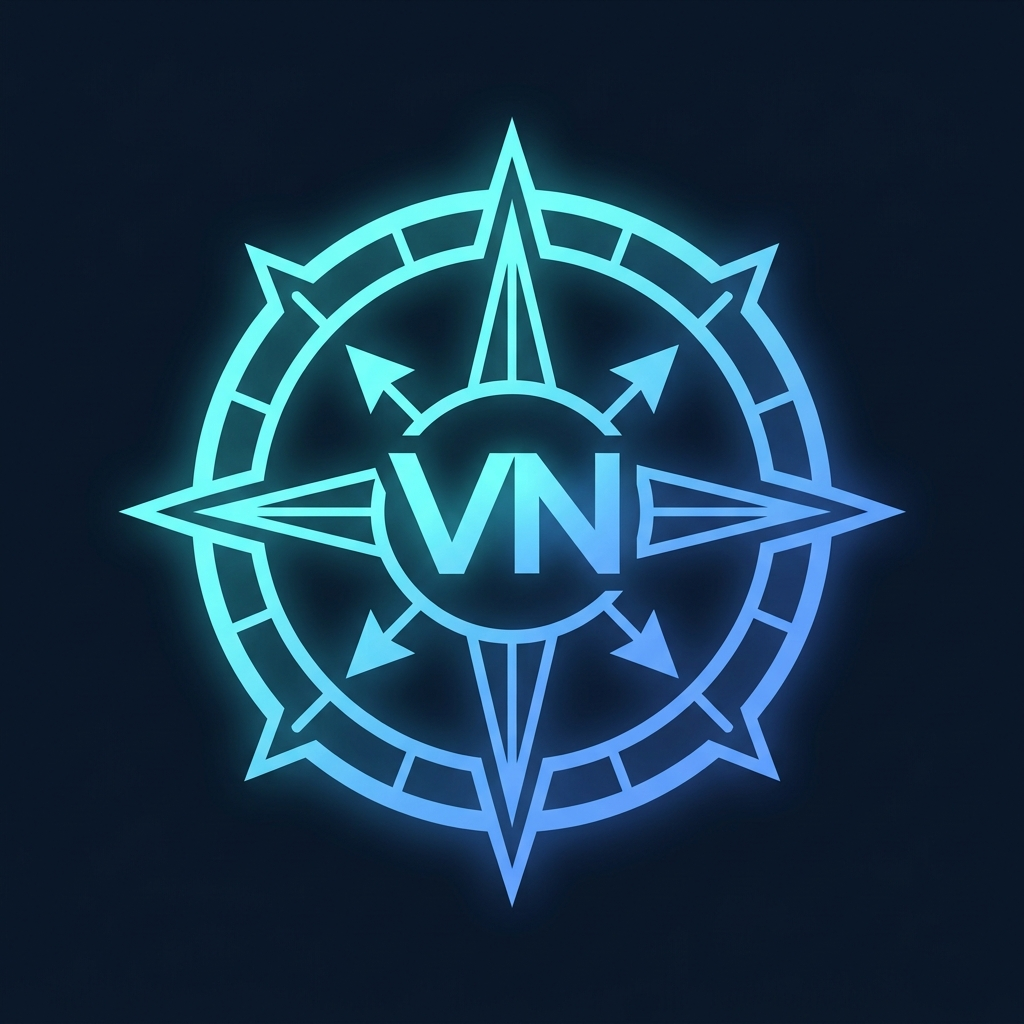
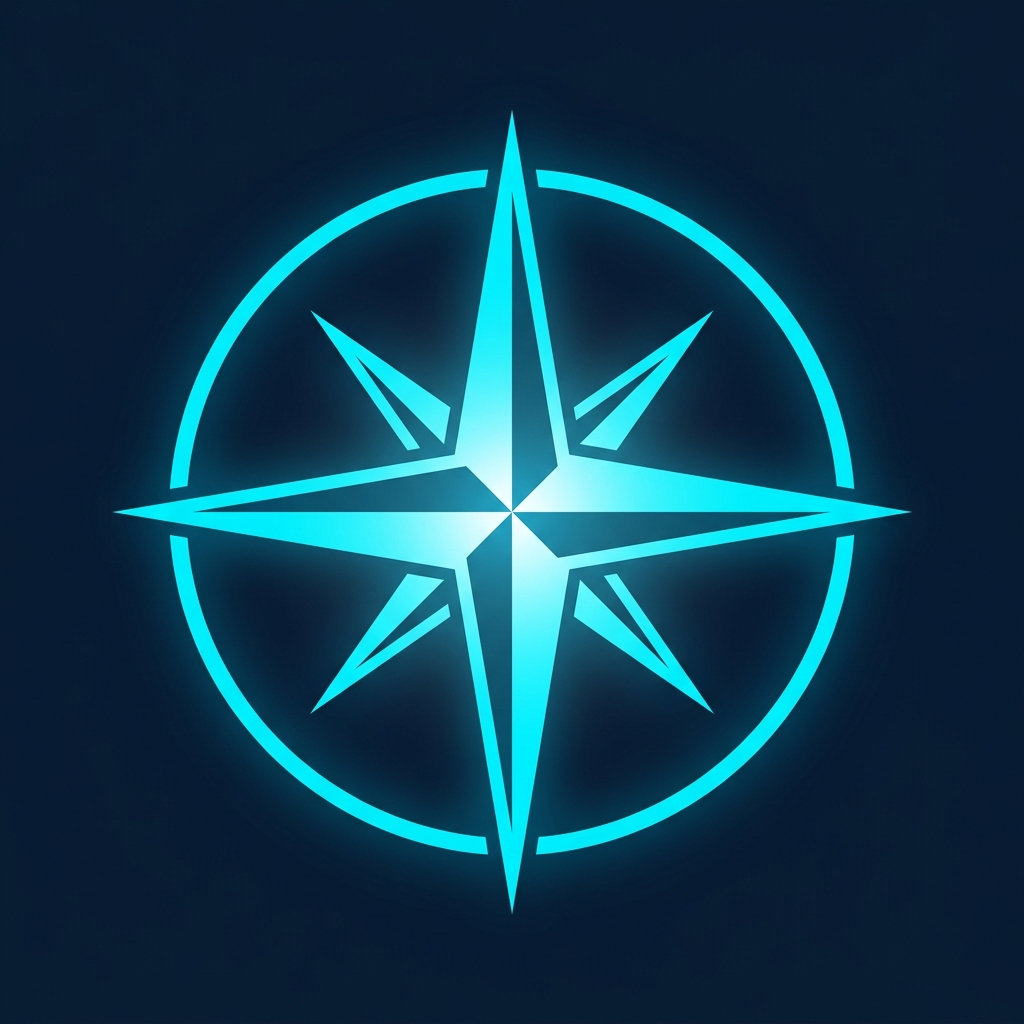
Update brand assets with consistent theme, add social post & Hangar listing

diff --git a/assets/hangar-listing.md b/assets/hangar-listing.md
@@ -1,0 +1,174 @@
+# VelocityNavigator — Hangar (PaperMC) Listing
+
+![VelocityNavigator Banner](https://raw.githubusercontent.com/sdemonzdevelopment-spec/VelocityNavigator/main/assets/hero-banner.png)
+
+**VelocityNavigator v4** is a production-grade Velocity proxy plugin that delivers absolute traffic control over your network through intelligent load balancing, circuit breaker resilience, and a highly context-aware `/lobby` system.
+
+No more funneling all new players into a single hub. No more sending players to offline servers. No more guessing which lobby they ended up on.
+
+> **Platform:** Velocity only — this plugin runs on your **Velocity proxy**, not on Paper/Spigot backends.
+
+![Routing](https://raw.githubusercontent.com/sdemonzdevelopment-spec/VelocityNavigator/main/assets/feature-routing.png)
+
+## What's New in v4
+
+- **7 Selection Algorithms** — `least_players`, `random`, `round_robin`, `power_of_two` (recommended), `weighted_round_robin`, `least_connections`, `consistent_hash`
+- **Circuit Breaker** — Automatic failure detection with CLOSED → OPEN → HALF_OPEN state machine
+- **Player Affinity** — Sticky sessions so players return to their previous lobby, configurable via `[routing.affinity]`
+- **Server Drain Mode** — Gracefully empty servers for maintenance with `/vn drain`
+- **Connection Retry & Fallback Chain** — Configurable retry with priority-based fallback groups
+- **Admin Update Notifications** — Automatic check on proxy start + admin join alerts
+- **Per-Group Mode Override** — Different routing algorithms per contextual group
+- **Self-Documenting Config** — Auto-migrates from v3 with `.bak` backup
+
+## Why VelocityNavigator?
+
+### For Players
+- `/lobby` just works — fast, reliable, with clear feedback messages.
+- Always routes to a healthy, reachable server.
+- Automatically placed into the best lobby the moment they join the network, before authentication even completes.
+- Sticky sessions mean players rejoin the lobby they were last on.
+
+### For Admins
+- **Initial Join Balancing** — Bypasses Velocity's default static fallback engine to perfectly split initial proxy connection waves.
+- **7 routing algorithms** — From simple `random` to advanced `power_of_two` with 3–5× better tail latency.
+- **Circuit Breaker** — Automatically stops routing to failing servers before players notice.
+- **Server Drain Mode** — Safely empty lobbies for maintenance without kicking players.
+- **Contextual lobby groups** — Different game servers can point to different lobby pools with automatic fallback loops.
+- **Real-time health checks** — Async pings with configurable timeout, TTL caching, and ping coalescing to prevent backend storms.
+- **Connection retry** — Automatically retries on connection failure with configurable fallback chain.
+- **Anti-spam protection** — Pre-execution cooldown locks block macro abuse before the routing engine even fires.
+- **Update notifications** — Checks for updates on startup and notifies admins when they join.
+
+## How Routing Works
+
+```
+Player runs /lobby
+    ↓
+Player affinity check (return to previous lobby if sticky)
+    ↓
+Contextual group resolution (if enabled)
+    ↓
+Fallback to default lobbies (if contextual group is empty/offline)
+    ↓
+Cycle pruning (remove current server if alternatives exist)
+    ↓
+Drain filter (skip servers in drain mode)
+    ↓
+Circuit breaker check (skip OPEN/circuit-tripped servers)
+    ↓
+Async health checks (with TTL cache + ping coalescing)
+    ↓
+Selection strategy (7 algorithms available)
+    ↓
+Connection attempt with retry + fallback chain
+    ↓
+Player is connected to the best available lobby
+```
+
+*All server name matching is **case-insensitive** — `Lobby-1` and `lobby-1` are treated identically.*
+
+## Commands & Diagnostics
+
+| Command | Permission | Description |
+|---------|-----------|-------------|
+| `/lobby` | `velocitynavigator.use` | Send to best available lobby |
+| `/vn reload` | `velocitynavigator.admin` | Reload config live |
+| `/vn status` | `velocitynavigator.admin` | Runtime status dashboard |
+| `/vn debug player <name>` | `velocitynavigator.admin` | Preview routing for a player |
+| `/vn debug server <name>` | `velocitynavigator.admin` | Inspect server health snapshot |
+| `/vn drain <server>` | `velocitynavigator.admin` | Drain a server for maintenance |
+| `/vn undrain <server>` | `velocitynavigator.admin` | Remove drain mode from a server |
+| `/vn drain status` | `velocitynavigator.admin` | View all drained servers |
+| `/vn updatecheck` | `velocitynavigator.admin` | Check for plugin updates |
+| `/vn version` | `velocitynavigator.admin` | Display installed version |
+
+## Quick Config Example
+
+```toml
+# VelocityNavigator v4.0.0 Configuration
+
+notify_on_startup = true
+notify_admins_on_join = true
+
+[commands]
+primary = "lobby"
+aliases = ["hub", "spawn"]
+permission = "velocitynavigator.use"
+admin_aliases = ["velocitynavigator", "vn"]
+cooldown_seconds = 3
+reconnect_if_same_server = false
+
+[routing]
+selection_mode = "power_of_two"
+cycle_when_possible = true
+balance_initial_join = true
+max_retries = 2
+
+default_lobbies = [
+  { server = "lobby-1", max_players = 100, weight = 3 },
+  { server = "lobby-2", max_players = 100, weight = 2 },
+  { server = "lobby-3", max_players = 50, weight = 1 },
+]
+
+[routing.affinity]
+enabled = true
+stickiness = 0.7
+
+[circuit_breaker]
+enabled = true
+failure_threshold = 3
+cooldown_seconds = 30
+half_open_max_tests = 1
+
+[health_checks]
+enabled = true
+timeout_ms = 2500
+cache_seconds = 60
+
+[update_checker]
+channel = "release"
+```
+
+## Compatibility
+
+- **Platform:** Velocity only (not Bukkit/Spigot/Paper backends)
+- **Velocity:** `3.x`
+- **Java:** `17+`
+
+## Hangar Metadata
+
+| Field | Value |
+|-------|-------|
+| **Category** | Proxy / Utility |
+| **License** | Apache-2.0 |
+| **Supported Platforms** | Velocity |
+| **Keywords** | lobby, load-balancer, routing, velocity, proxy, navigation, hub |
+
+---
+
+## Documentation & Links
+
+- **GitHub Repository**: [View Source](https://github.com/sdemonzdevelopment-spec/VelocityNavigator)
+- **Configuration Guide**: [Read Here](https://github.com/sdemonzdevelopment-spec/VelocityNavigator/wiki/Configuration-Guide)
+- **Routing Algorithms**: [Read Here](https://github.com/sdemonzdevelopment-spec/VelocityNavigator/wiki/Routing-Algorithms)
+- **Circuit Breaker**: [Read Here](https://github.com/sdemonzdevelopment-spec/VelocityNavigator/wiki/Circuit-Breaker)
+- **Initial Join Balancing**: [Read Here](https://github.com/sdemonzdevelopment-spec/VelocityNavigator/wiki/Initial-Join-Balancing)
+- **Operations Runbook**: [Read Here](https://github.com/sdemonzdevelopment-spec/VelocityNavigator/wiki/Operations-Runbook)
+- **Migration Guide (v3 → v4)**: [Read Here](https://github.com/sdemonzdevelopment-spec/VelocityNavigator/wiki/Migration-Guide)
+
+---
+
+## Telemetry
+
+[![bStats](https://bstats.org/signatures/velocity/Velocity%20Navigator.svg)](https://bstats.org/plugin/velocity/Velocity%20Navigator/28341)
+
+---
+
+<p align="center">
+  <img src="https://raw.githubusercontent.com/sdemonzdevelopment-spec/VelocityNavigator/main/assets/plugin-icon.png" alt="VelocityNavigator Icon" width="64">
+  <br>
+  <strong>Built with care by DemonZ Development</strong>
+  <br>
+  <em>Premium Minecraft infrastructure, engineered for scale.</em>
+</p>